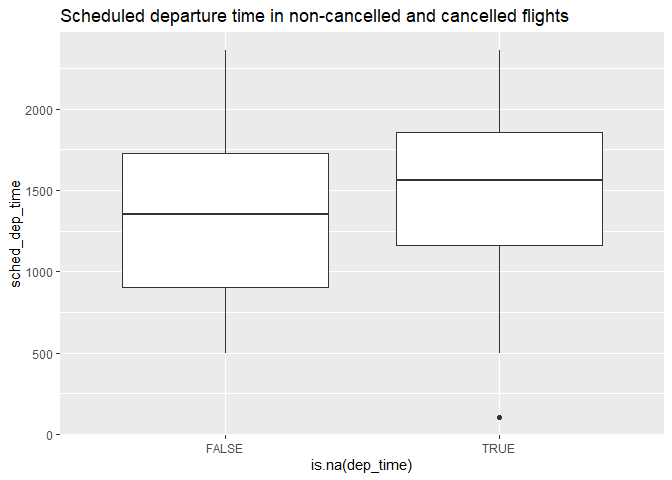
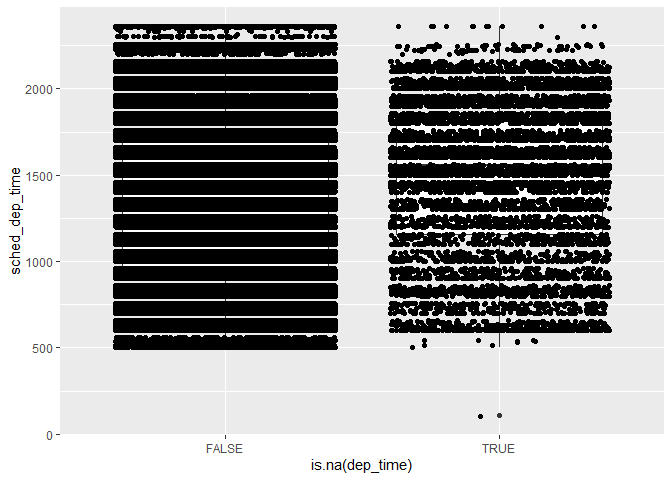
slight formatting changes

diff --git a/week4/week4_hw.html b/week4/week4_hw.html
@@ -636,8 +636,14 @@ glimpse(flights)</code></pre>
 
 flights %&gt;% ggplot(aes(x = is.na(dep_time), y = sched_dep_time, na.rm = FALSE)) +
   geom_boxplot(position = &quot;dodge&quot;) +
-  ggtitle(&quot;Scheduled departure time in non-cancelled and cancelled flights&quot;)</code></pre>
[1 lines of base64/hex data omitted]
+  geom_jitter()</code></pre>
[1 lines of base64/hex data omitted]
+<pre class="r"><code>  ggtitle(&quot;Scheduled departure time in non-cancelled and cancelled flights&quot;)</code></pre>
+<pre><code>## $title
+## [1] &quot;Scheduled departure time in non-cancelled and cancelled flights&quot;
+## 
+## attr(,&quot;class&quot;)
+## [1] &quot;labels&quot;</code></pre>
 </div>
 <div id="what-variable-in-the-diamonds-dataset-is-most-important-for-predicting-the-price-of-a-diamond-how-is-that-variable-correlated-with-cut-why-does-the-combination-of-those-two-relationships-lead-to-lower-quality-diamonds-being-more-expensive" class="section level4">
 <h4>2. What variable in the diamonds dataset is most important for predicting the price of a diamond? How is that variable correlated with cut? Why does the combination of those two relationships lead to lower quality diamonds being more expensive?</h4>
@@ -753,9 +759,13 @@ flights %&gt;% filter( carrier == &quot;UA&quot;) %&gt;%
 <h3>Last Problem</h3>
 <div id="describe-an-experiment-that-would-possess-2-categorical-variables-and-2-continuous-variables." class="section level4">
 <h4>“Describe an <em>experiment</em> that would possess 2 <em>categorical</em> variables and 2 <em>continuous</em> variables.”</h4>
-<p><em>Let us revisit the classic plant music experiment. We shall play different kinds of music over different lengths of time, and observe the effect of growth to the petiole and the stem.</em> * <em>categorical variables:</em><br />
-* <em>type of music played to plant</em> * <em>time</em> <em>continuous variables:</em><br />
-* <em>petiole elongation</em> * <em>stem elongation</em></p>
+<p><em>Let us revisit the classic plant music experiment. We shall play different kinds of music over different lengths of time, and observe the effect of growth to the petiole and the stem.</em><br />
+* <em>categorical variables:</em><br />
+* <em>type of music played to plant</em><br />
+* <em>time</em><br />
+<em>continuous variables:</em><br />
+* <em>petiole elongation</em><br />
+* <em>stem elongation</em></p>
 </div>
 </div>
 </div>

diff --git a/week4/week4_hw.md b/week4/week4_hw.md
@@ -399,10 +399,22 @@ summary(flights)
 
 flights %>% ggplot(aes(x = is.na(dep_time), y = sched_dep_time, na.rm = FALSE)) +
   geom_boxplot(position = "dodge") +
-  ggtitle("Scheduled departure time in non-cancelled and cancelled flights")
+  geom_jitter()
 ```
 
 ![](week4_hw_files/figure-html/7.5.1.1.1-1.png)<!-- -->
+
+```r
+  ggtitle("Scheduled departure time in non-cancelled and cancelled flights")
+```
+
+```
+## $title
+## [1] "Scheduled departure time in non-cancelled and cancelled flights"
+## 
+## attr(,"class")
+## [1] "labels"
+```
 
 #### 2. What variable in the diamonds dataset is most important for predicting the price of a diamond? How is that variable correlated with cut? Why does the combination of those two relationships lead to lower quality diamonds being more expensive?
 
@@ -558,10 +570,10 @@ ggplot(data = diamonds, mapping = aes(x = cut, y = price)) +
 
 #### "Describe an *experiment* that would possess 2 *categorical* variables and 2 *continuous* variables."
 
-  *Let us revisit the classic plant music experiment. We shall play different kinds of music over different lengths of time, and observe the effect of growth to the petiole and the stem.*
-  * *categorical variables:*  
-      * *type of music played to plant*
-      * *time*
-    *continuous variables:*  
-      * *petiole elongation*
-      * *stem elongation*
+  *Let us revisit the classic plant music experiment. We shall play different kinds of music over different lengths of time, and observe the effect of growth to the petiole and the stem.*  
+  * *categorical variables:*    
+      * *type of music played to plant*  
+      * *time*  
+    *continuous variables:*    
+      * *petiole elongation*  
+      * *stem elongation*  
